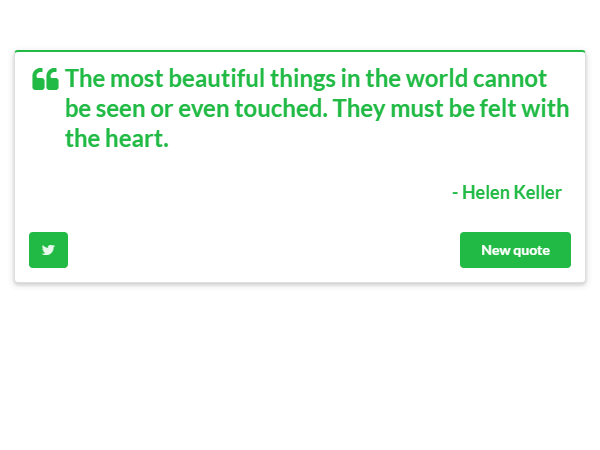
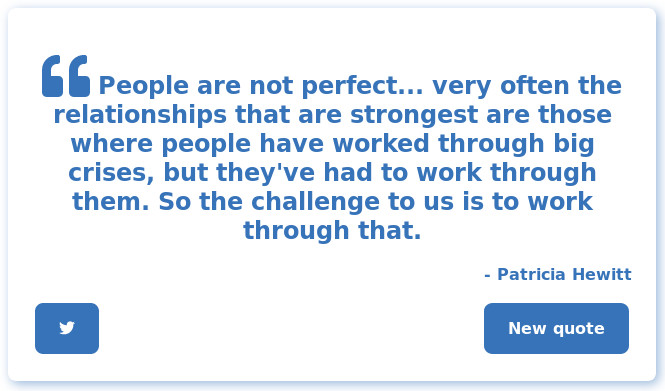
?

Changed region(s): [[0.0, 0.0307, 1.0, 1.0], [0.03, 0.7673, 0.15, 0.9207]]

diff --git a/content/portfolio/random-quote-machine.md b/content/portfolio/random-quote-machine.md
@@ -2,10 +2,10 @@
 title: "Random Quote Machine"
 date: 2018-04-13T18:27:11+02:00
 draft: false
-tags: ["FreeCodeCamp", "React.js", "SemanticUI"]
+tags: ["FreeCodeCamp", "React.js"]
 screenshotPath: "images/portfolio/random-quote-machine.jpg"
 screenshotAltText: "Screenshot of random quote machine"
 sourceCodeUrl: "https://github.com/kaimies/random-quote-machine"
-projectUrl: "https://kaimies.github.io/random-quote-machine/"
+projectUrl: "https://edgecube.io/fcc/random-quote-machine/"
 ---
 

diff --git a/content/portfolio/markdown-previewer.md b/content/portfolio/markdown-previewer.md
@@ -1,0 +1,10 @@
+---
+title: 'Markdown Previewer'
+date: 2018-10-05T12:15:57+02:00
+draft: false
+tags: ['FreeCodeCamp', 'React.js']
+screenshotPath: 'images/portfolio/markdown-previewer.png'
+screenshotAltText: 'Screenshot of markdown previewer'
+sourceCodeUrl: 'https://github.com/kaimies/fcc-markdown-preview'
+projectUrl: 'https://edgecube.io/fcc/markdown-previewer/'
+---
